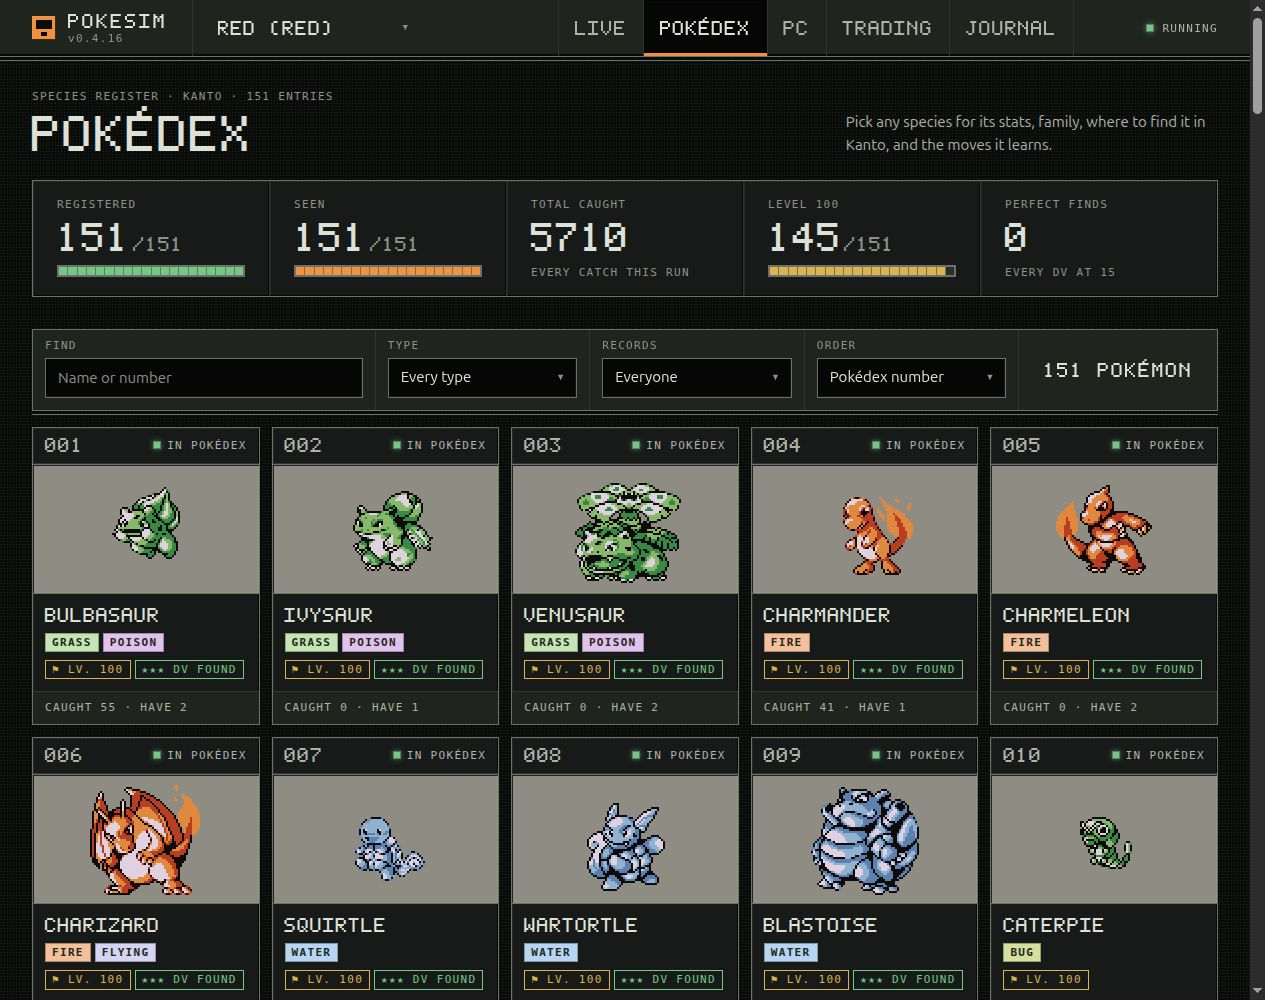
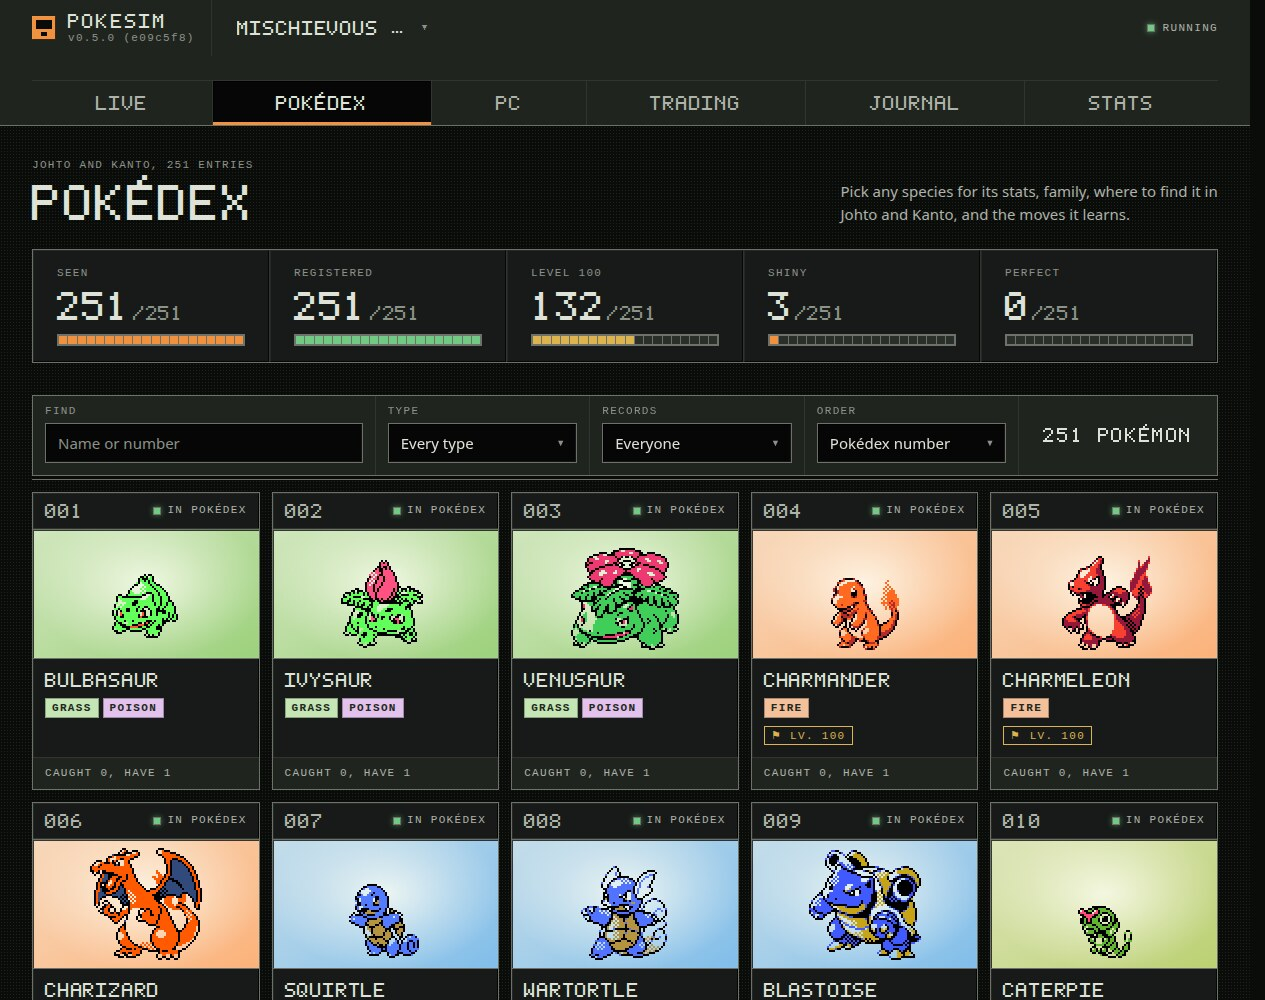
Refresh README media for 0.5.0 and lead with Generation I and II support
New captures from the live 0.5.0 server: a Crystal Elite Four GIF, a Blue
Victory Road GIF, the six-game Library and Crystal and Yellow panels. The
README now names both generations up front and moves Gen II clock and
rollback detail to the existing guide and operations docs.

diff --git a/tools/check_package.py b/tools/check_package.py
@@ -125,8 +125,8 @@ for artifact in artifacts:
                 'Dockerfile', '.dockerignore', '.env.example', 'compose.yaml',
                 'compose.build.yaml', 'compose.quickstart.yaml',
                 'install.sh', 'install.ps1',
-                'docs/README.md', 'docs/images/live-adventure.jpg',
-                'docs/images/live-adventure.gif',
+                'docs/README.md', 'docs/images/gen1-live.gif',
+                'docs/images/gen2-live.gif',
                 'docs/images/pc-panel.jpg', 'docs/images/pokedex-panel.jpg',
                 'docs/images/journal-panel.jpg', 'docs/images/stats-panel.jpg',
                 'docs/images/library.jpg',

diff --git a/README.md b/README.md
@@ -1,93 +1,76 @@
 # PokeSim
 
-**Pokémon Red, Blue, Yellow, Gold, Silver and Crystal adventures that keep going while you're away.**
+**Generation I and II Pokémon adventures that keep going while you're away.**
+
+| Generation | Games | Pokédex |
+| --- | --- | --- |
+| I | Red, Blue and Yellow | 151 Kanto species |
+| II | Gold, Silver and Crystal | 251 species across Johto and Kanto |
 
 Watch an automatic player catch Pokémon, earn badges and challenge the League in
 your browser. Take control whenever you like, then hand the adventure back.
 Everything runs locally, with no model API or subscription.
 
-![A live Red adventure training Magikarp, traveling and battling alongside its party](docs/images/live-adventure.gif)
+![A live Crystal adventure with all 16 badges and 251 Pokémon registered, battling Will of the Elite Four](docs/images/gen2-live.gif)
 
-An eight-second clip from a running adventure. [Still image](docs/images/live-adventure.jpg).
+Eight seconds of a Crystal adventure at the Elite Four, with all 16 badges and all 251 Pokémon registered.
 
 ## Keep the adventure going
 
-- **Independent games:** Run adventures from both generations side by side, each with its own saves
-  and speed. Check CPU, memory and observed speed in the Library.
+- **Six games side by side:** Run any mix of Generation I and II adventures, each with
+  its own saves and speed. Check CPU, memory and observed speed in the Library.
 - **A growing collection:** Explore the Pokédex and search every PC box. Compare
   power, types and DV quality to find promising Pokémon.
-- **They trade with each other:** Adventures automatically meet in the in-game
-  Cable Club and exchange Pokémon over a virtual link cable, including trade evolutions.
+- **They trade with each other:** Adventures meet in the in-game Cable Club and
+  exchange Pokémon over a virtual link cable, including trade evolutions. Generation I
+  and II games trade with each other through the Time Capsule.
 - **Milestones and stats:** Follow catches, League wins, collection strength and
   marathon personal bests in the Journal.
 - **Life after the League:** Keep training, rotate League teammates, revisit
   eligible encounters and earn new Pokémon.
 - **Your own touch:** Add nickname prefixes and suffixes, take over the controls,
-  or export a `.sav` (a `.zip` with the `.rtc` clock for Gen II) to continue in another emulator.
+  or export your save to continue in another emulator.
 
 | Journal entries | Adventure stats |
 | --- | --- |
 | [![Journal entries](docs/images/journal-panel.jpg)](docs/images/journal-panel.jpg) | [![Adventure stats](docs/images/stats-panel.jpg)](docs/images/stats-panel.jpg) |
 
-Yellow adventures start with Pikachu and follow Yellow's own story, including Jessie and
-James and the gift starters. They trade with Red and Blue over the Cable Club and with Gold,
-Silver and Crystal through the Time Capsule. A new Yellow game was played to the Champion on
-the Rust backend for this release.
+## Generation I: Red, Blue and Yellow
 
-Gold, Silver and Crystal adventures play through all 16 badges and Red and work toward
-the 251-species Pokédex, with breeding and held items. Generation II runs on the Rust
-emulator (PyBoy RS through PokeSim Core) only. There is no PyBoy fallback: 0.5.0 does not
-depend on PyBoy, and 0.4.x, which does, has no Generation II support.
+![A live Blue adventure walking Victory Road and battling a wild Geodude](docs/images/gen1-live.gif)
 
-The cartridges contain a real-time clock. In the app, a Generation II adventure runs that clock
-on game time: it advances with emulated frames, so at 1x it keeps pace with a console and at
-Max the day, night and weekday arrive as fast as the run plays. It never runs backward, even
-after a restart, a save reload, a trade or a crash. The Live page shows the in-game weekday,
-time and period. The verification tools and the checkpoints made for them lock the clock to a
-fixed instant so that runs are reproducible. Exporting a Generation II adventure downloads a `.zip` holding the 32 KiB `.sav` and its ten-byte
-`.rtc` clock file with the same base name. Put both next to the ROM, since a save without its clock
-is read as having lost the time. Generation I exports remain a single `.sav`. A checkpoint saved with a
-locked clock is refused by 0.4.x.
+Red and Blue adventures play the Kanto story to the Hall of Fame and keep going.
+Yellow starts with Pikachu and follows its own story, including Jessie and James
+and the gift starters. Exports are a standard `.sav`.
 
-Verified for this release on the Rust backend, with owner-supplied cartridges: the Library
-runtime and checkpoint restart for each of Gold, Silver and Crystal; `.sav` export with a fresh
-cartridge Continue and clock for each; Time Capsule exchange of a prepared Gen II offer with both
-Red and Blue (six pairings); and the Red and Blue Cable Club exchange in both directions.
-Not re-run on this backend: the full campaigns from a new game. The recorded campaigns in the
-[Generation II notes](docs/gen2-exploration.md) were played on development builds that used
-PyBoy 2.7.0, before the move to the Rust backend, and replay identically from their saved states, but 0.5.0 has not played a fresh Gold, Silver or Crystal game to the League.
+## Generation II: Gold, Silver and Crystal
 
-## Upgrading is one way for Generation II
+Gold, Silver and Crystal adventures earn all 16 badges, beat Red and work toward the
+251-species Pokédex, with breeding, held items and roaming beasts. Crystal adds the
+Battle Tower and an optional Celebi event.
 
-Copy the whole data directory (the library) somewhere safe before you upgrade. To go back,
-stop the app and start the previous version.
-
-- Red and Blue adventures need no restore. Their saves and manifests keep the
-  `pyboy_version: "2.7.0"` tag that 0.4.x checks, so 0.4.x opens them as they are.
-- Gold, Silver and Crystal adventures need 0.5.0 or later. 0.4.x cannot open them, so restore
-  your copy of the library or remove those adventures before you go back.
-- Locked-clock checkpoints are refused by 0.4.x. Only verification tools make them.
-
-See [Generation II support and validation](docs/gen2-exploration.md) for cartridge revisions,
-test evidence and compatibility boundaries.
+The cartridge clock that decides day, night and weekday events runs on game time. At 1x
+it keeps pace with a console, and at Max the days pass as fast as the run plays. Exports
+are a `.zip` holding the `.sav` and its `.rtc` clock file. Put both next to the ROM.
+[How the clock works](docs/guide.md) and [cartridge details](docs/gen2-exploration.md).
 
 ## The collection is half the fun
 
-In Red and Blue, want all 151? Run both games and let them trade version exclusives and
-trade evolutions automatically. New adventures created in the Library have
-these rewards and return visits **enabled by default**, so the collection keeps
-growing beyond the original games' one-time encounters:
+Want every species? Run more than one game and let them trade version exclusives
+and trade evolutions automatically, across generations too. New adventures created in the
+Library have these rewards and return visits **enabled by default**, so the collection
+keeps growing beyond the original games' one-time encounters:
 
-- **Another Eevee, another fossil:** After becoming Champion and unlocking the
-  original events, revisit gifts, fossils, the Fighting Dojo and supported NPC
-  trades after **100,000 steps** by default.
-- **Legendary rematches:** Previously acquired legendary birds and Mewtwo can
-  return to be caught again every **1,000,000 steps** by default.
+- **Another Eevee, another fossil (Generation I):** After becoming Champion and
+  unlocking the original events, revisit gifts, fossils, the Fighting Dojo and
+  supported NPC trades after **100,000 steps** by default.
+- **Legendary rematches (Generation I):** Previously acquired legendary birds and
+  Mewtwo can return to be caught again every **1,000,000 steps** by default.
 - **A mythical reward:** A custom Mew gift arrives in the PC after your first
-  League win. Mew isn't normally obtainable in either game. Another
+  League win. Mew isn't normally obtainable in these games. Another
   million steps followed by a new League win earns another.
-- **More starters:** Receive a random Bulbasaur, Charmander or
-  Squirtle after each new League win.
+- **More starters:** Receive a random Kanto starter in Generation I, or a random
+  Johto starter in Generation II, after each new League win.
 
 Change or disable these rewards in each adventure's settings.
 [How return visits work](docs/step-rewards.md).
@@ -105,8 +88,7 @@ Change or disable these rewards in each adventure's settings.
 - **The Kanto Marathon:** Sometimes the next big goal is a run around Kanto.
   Follow the race and see whether your trainer beats their personal best.
 
-The expanded name pool and Discord and Telegram support arrived in
-[0.5.0](docs/release-notes.md). Follow the [changelog](CHANGELOG.md) for new additions.
+Follow the [changelog](CHANGELOG.md) for new additions.
 
 ## Your adventure library
 
@@ -116,7 +98,7 @@ one cartridge slot in Settings → Game cartridges. Drop a ROM on any slot and P
 recognises the game and files it in the right one. New adventure then lets you pick
 from the cartridges you have installed.
 
-![Library with Red and Blue running alongside a saved adventure](docs/images/library.jpg)
+![Library running Red, Blue, Yellow, Gold, Silver and Crystal at once](docs/images/library.jpg)
 
 ## Install
 
@@ -141,7 +123,8 @@ On Windows PowerShell, use `curl.exe`. Docker keeps your library in a persistent
 volume. Keep this folder for future Compose commands.
 
 **Already installed?** Keep your existing Compose file and data mount. Back up
-before upgrading. The [self-hosting guide](docs/self-hosting.md) covers updates,
+before upgrading, since Yellow, Gold, Silver and Crystal adventures cannot be opened by
+earlier releases. See [update and roll back](docs/operations.md#update-and-roll-back). The [self-hosting guide](docs/self-hosting.md) covers updates,
 remote access and custom ports.
 
 ### Desktop: install with uv

diff --git a/docs/images/README.md b/docs/images/README.md
@@ -7,33 +7,32 @@ the public README. No game state or statistics were fabricated for these images.
 
 | File | Captured | View |
 | --- | --- | --- |
-| `live-adventure.gif` | October 3, 2026 | Red training Magikarp, traveling and battling, with its full party and controls, light theme |
-| `live-adventure.jpg` | September 27, 2026 | Fresh Start Red battle, six partners and the next objective, light theme |
-| `journal-panel.jpg` | October 2, 2026 | Red journal with a trade, training milestones and legendary returns |
-| `stats-panel.jpg` | October 2, 2026 | Red Pokédex, level 100 and League progress charts |
-| `pokedex-panel.jpg` | October 2, 2026 | Registered species, catch totals and colored types |
-| `pc-panel.jpg` | October 2, 2026 | All Pokémon, sorted by power, with recorded Elite Four wins |
-| `library.jpg` | October 2, 2026 | Library header and first row, including both running games and one stopped game |
+| `gen2-live.gif` | October 16, 2026 | Crystal battling Will of the Elite Four, with 16 badges and 251 registered |
+| `gen1-live.gif` | October 16, 2026 | Blue walking Victory Road into a wild Geodude battle, with 151 registered |
+| `journal-panel.jpg` | October 16, 2026 | Yellow journal with a League victory, a rival win and a starter reward |
+| `stats-panel.jpg` | October 16, 2026 | Crystal overview totals and milestones |
+| `pokedex-panel.jpg` | October 16, 2026 | Crystal Pokédex with 251 of 251 registered |
+| `pc-panel.jpg` | October 16, 2026 | Crystal PC boxes with the current box of new catches |
+| `library.jpg` | October 16, 2026 | Library with Red, Blue, Silver, Crystal, Gold and Yellow all running |
 
-The opening GIF is an eight-second recording of the owner's live home server
-running 0.4.17. It loops at six frames per second, measures 880 × 902 pixels and
-is approximately 2.6 MiB. The capture includes the complete party, controls and
-current objective. The simulation stayed at its existing Max speed. The colored
-party portraits come from the owner's optional community sprite pack. The game
-screen itself is rendered by the emulator. The earlier still remains linked
-below the animation.
+All captures come from the owner's home server running public version 0.5.0, in
+the dark theme. Simulation states and speed were not changed for the captures.
 
-The October captures show public version 0.4.16 using the browser’s existing dark
-theme and 1265-pixel viewport. Journal and Stats panels are 712 pixels tall. Pokédex and
-PC panels are 1000 pixels tall. The Library
-capture is 1070 pixels tall and ends after the complete first row. A fourth,
-stopped adventure appears farther down the live page and is outside that crop.
-Simulation states were not changed for the captures.
+Both GIFs are eight-second headless browser recordings of the Live page at a
+900-pixel viewport, from the top of the page through the controls. They loop at
+six frames per second and measure 720 × 940 pixels. The colored party portraits
+and Pokédex art come from the owner's optional community sprite pack. The game
+screen itself is rendered by the emulator.
+
+The panels use a 1265-pixel viewport. Journal and Stats panels are 712 pixels
+tall. Pokédex and PC panels are 1000 pixels tall. The Library capture ends after
+the second row of adventures. Three Generation II cards show the Library's
+"Stuck?" note, which was present on the live server at capture time.
 
 The README arranges each pair in a two-column Markdown table. Matching dimensions
 keep the panels aligned. Each image links to the original for a full-size view.
-The superseded September panel captures are available in the
-[image archive before cleanup](https://github.com/afk-sapien/PokeSim/tree/5ea6630aab466cbf1f02abde4e3912ee3e90f0b6/docs/images).
+Earlier captures are available in the
+[0.4.19 image archive](https://github.com/afk-sapien/PokeSim/tree/v0.4.19/docs/images).
 
 Keep screenshots free of browser chrome, local file paths, credentials and
 private settings. Choose views through the actual interface without altering
